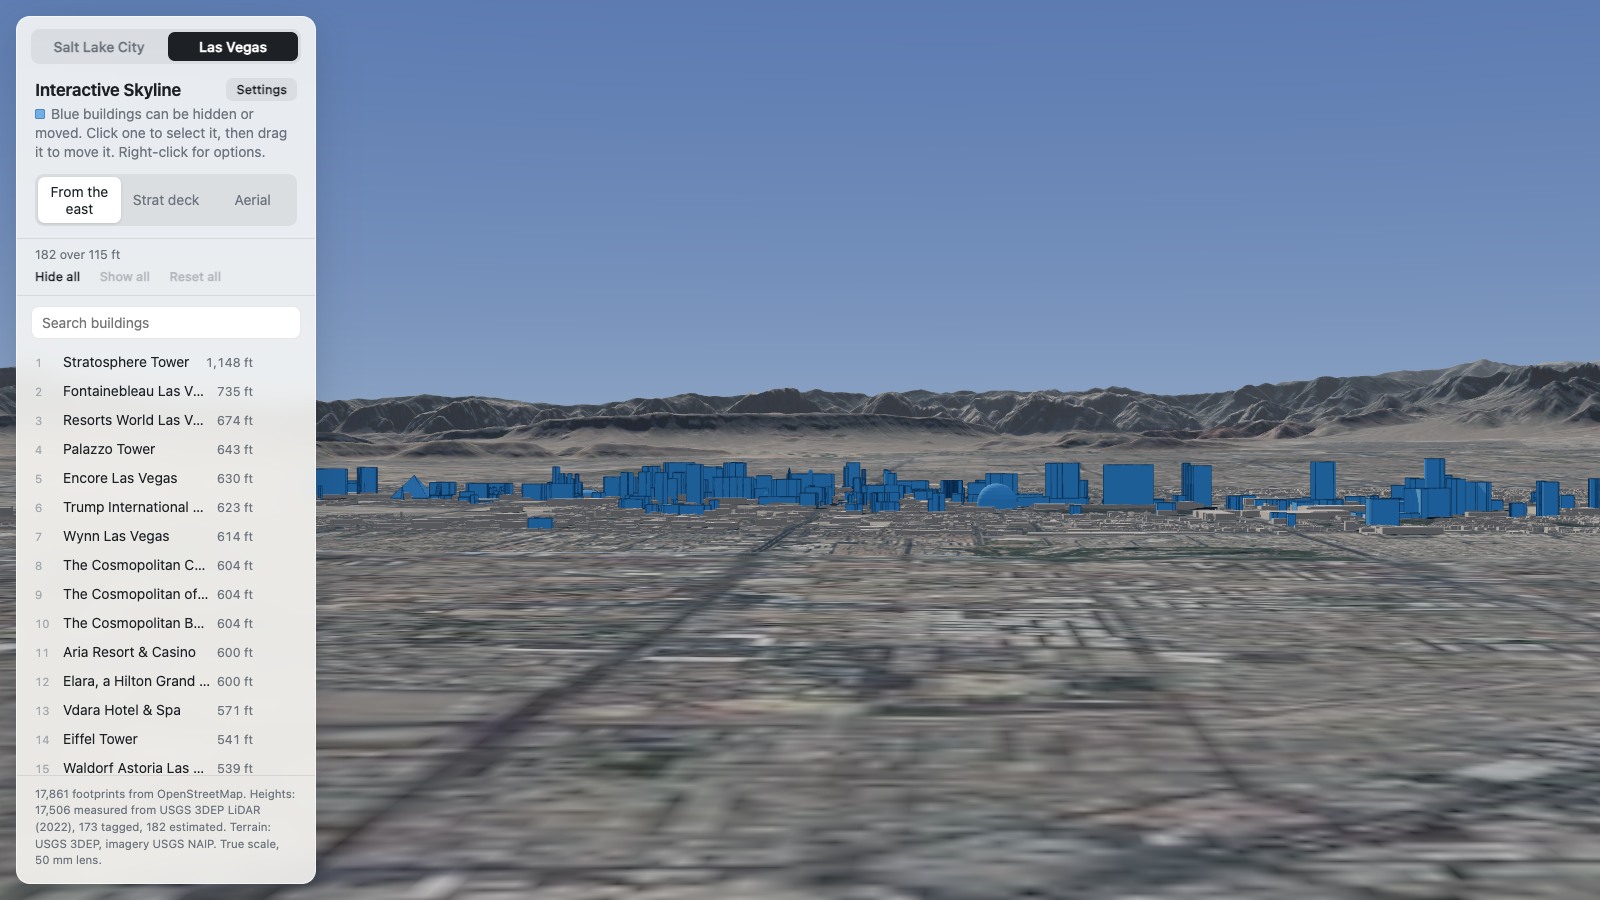
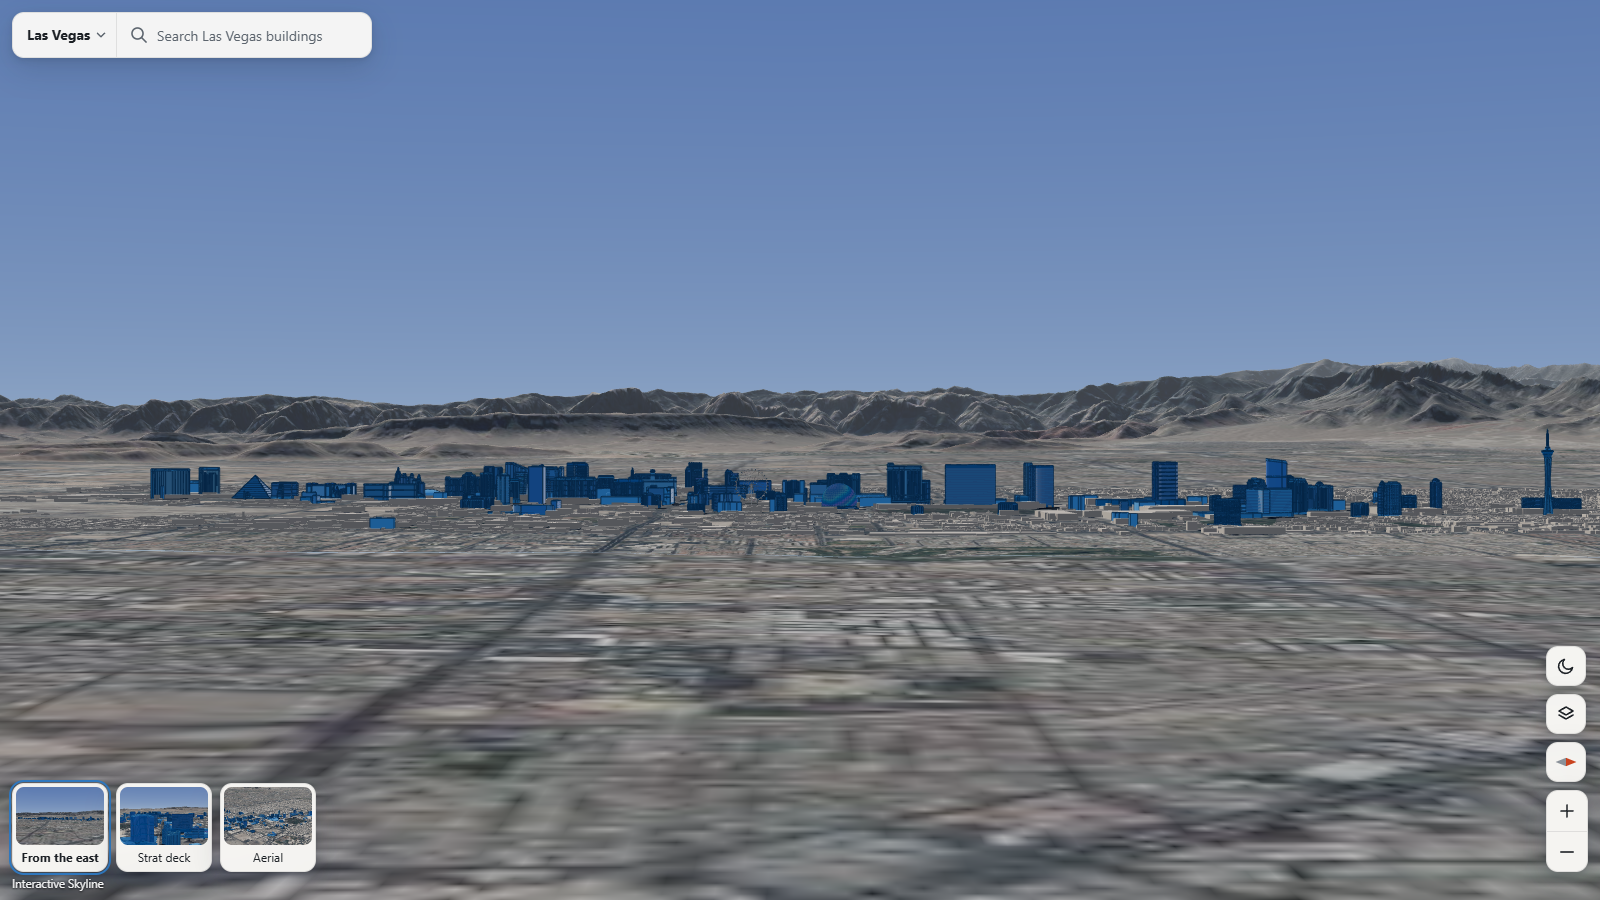
docs: new screenshots, a Salt Lake City day flyover and the 76 SLC models in the README
The README screenshots still showed the old side-panel UI and no models.
Retakes Salt Lake City from Ensign Peak, Las Vegas from the east and the
moved Sphere with the map-style controls, and adds a night view of Salt Lake
City from Ensign Peak and a daytime flyover GIF around downtown (recorded
with the skill's flyover.py; the command is in the README).

diff --git a/README.md b/README.md
@@ -6,6 +6,10 @@ A true-scale 3D model of the Salt Lake City and Las Vegas skylines, built with t
 
 ![Salt Lake City from Ensign Peak](docs/salt-lake-city.png)
 
+![A daytime flight around downtown Salt Lake City, from the southwest to the east](docs/salt-lake-city-day.gif)
+
+![Salt Lake City from Ensign Peak at night, the Capitol floodlit in front of the downtown towers](docs/salt-lake-city-night.png)
+
 ![Las Vegas from the east](docs/las-vegas.png)
 
 ![The Las Vegas Strip at night, from Mandalay Bay and the Luxor beam up to the Strat](docs/las-vegas-night.gif)
@@ -21,7 +25,7 @@ A true-scale 3D model of the Salt Lake City and Las Vegas skylines, built with t
 - **Change the picture.** The moon button switches to night: windows light up and the hand-modelled landmarks of both cities glow with their own lighting. Map options set the aerial photo, the blue color, how tall a building must be to count, and the units.
 - **Watch the Strip.** In Las Vegas the Bellagio fountains run their show and the High Roller turns.
 
-![The Sphere moved across the Strip](docs/moved.png)
+![The Sphere moved onto the Wynn golf course](docs/moved.png)
 
 ## Run it
 
@@ -69,7 +73,7 @@ To add a city, add an entry to `data/cities.json` (origin, bounding box, LiDAR d
 
 ## Hand-modelled landmarks
 
-In Las Vegas, 131 buildings are low-poly models made by hand instead of extruded footprints: the hotels and casinos of the Strip and downtown, the Strat, the Eiffel Tower, the Sphere, and the Luxor pyramid with its sphinx and obelisk. Three structures that are not buildings in the map data are modelled too: the Fremont Street canopy, the High Roller (its rim turns and its cabins stay level) and the Luxor Sky Beam at night. In Salt Lake City, the 50 tallest buildings are modelled the same way, from Astra Tower and the Wells Fargo Center down to the mid-rise towers of the Central Business District. The list includes the Church Office Building, the Utah State Capitol with its dome, the Salt Lake Temple with its six spires, and the City and County Building with its clock tower. Every building model stands on its real OpenStreetMap footprint at its measured height, and every model carries its own night lighting.
+In Las Vegas, 131 buildings are low-poly models made by hand instead of extruded footprints: the hotels and casinos of the Strip and downtown, the Strat, the Eiffel Tower, the Sphere, and the Luxor pyramid with its sphinx and obelisk. Three structures that are not buildings in the map data are modelled too: the Fremont Street canopy, the High Roller (its rim turns and its cabins stay level) and the Luxor Sky Beam at night. In Salt Lake City, all 76 buildings over the 35 m cutoff are modelled the same way, from Astra Tower and the Wells Fargo Center down to the mid-rise towers and historic office blocks of downtown. They include the Church Office Building, the Utah State Capitol with its dome, the Salt Lake Temple with its six spires, the City and County Building with its clock tower, and the Delta Center arena. Every building model stands on its real OpenStreetMap footprint at its measured height, and every model carries its own night lighting.
 
 The models are GLB files with one folder per city, `public/models/lv/` and `public/models/slc/`, listed in `public/models/models.json`. Each one is made by a Python script run in Blender, and the scripts are in `landmarks/<city>/<model>/` with what they were made from:
 
@@ -100,11 +104,14 @@ The models were made with two [Claude Code](https://claude.com/claude-code) skil
 
 Both run Blender headless, in its own process, so they never touch a Blender window you have open. The scripts need Python 3.10+, Blender, and Chrome or Edge for the screenshots in the app.
 
-The skill's `flyover.py` recorded the night GIF above, rendering frame by frame in headless Chrome and encoding with ffmpeg:
+The skill's `flyover.py` recorded the GIFs above, rendering frame by frame in headless Chrome and encoding with ffmpeg:
 
 ```sh
 python .claude/skills/blender-landmark-model/scripts/flyover.py --repo . --out docs/las-vegas-night.gif --night \
   --key "1700,-2300,700:-250,-1700,90" --key "2500,1200,700:1100,3000,120" \
+  --seconds 8 --fps 8 --width 640 --colors 128
+python .claude/skills/blender-landmark-model/scripts/flyover.py --repo . --city slc --out docs/salt-lake-city-day.gif \
+  --key=-900,-1750,330:150,-420,70 --key=350,-2050,300:150,-380,70 --key=1450,-1350,280:150,-280,70 \
   --seconds 8 --fps 8 --width 640 --colors 128
 ```
 
@@ -122,7 +129,7 @@ Las Vegas was checked against Wikipedia's list of its tallest buildings, matched
 
 Known limits:
 
-- Apart from the hand-modelled landmarks (131 in Las Vegas, the 50 tallest in Salt Lake City), buildings are extruded footprints. Pyramids and domes are drawn where OpenStreetMap tags them; everything else has a flat roof.
+- Apart from the hand-modelled landmarks (131 in Las Vegas, all 76 tall buildings in Salt Lake City), buildings are extruded footprints. Pyramids and domes are drawn where OpenStreetMap tags them; everything else has a flat roof.
 - The hand-made models have measured footprints and heights, but most of their facades are estimated from a few photos. The Strat's pod, crown and mast are sized from the LiDAR and its legs are estimated. The Las Vegas Eiffel Tower's height and the position of its four feet are real, and its platforms follow the proportions of the original.
 - Buildings finished after the LiDAR survey have estimated heights unless OpenStreetMap tags one. They are marked "est." in the list.
 - Hand corrections to wrong or missing OpenStreetMap data are listed, with reasons, in `data/overrides.json`.
